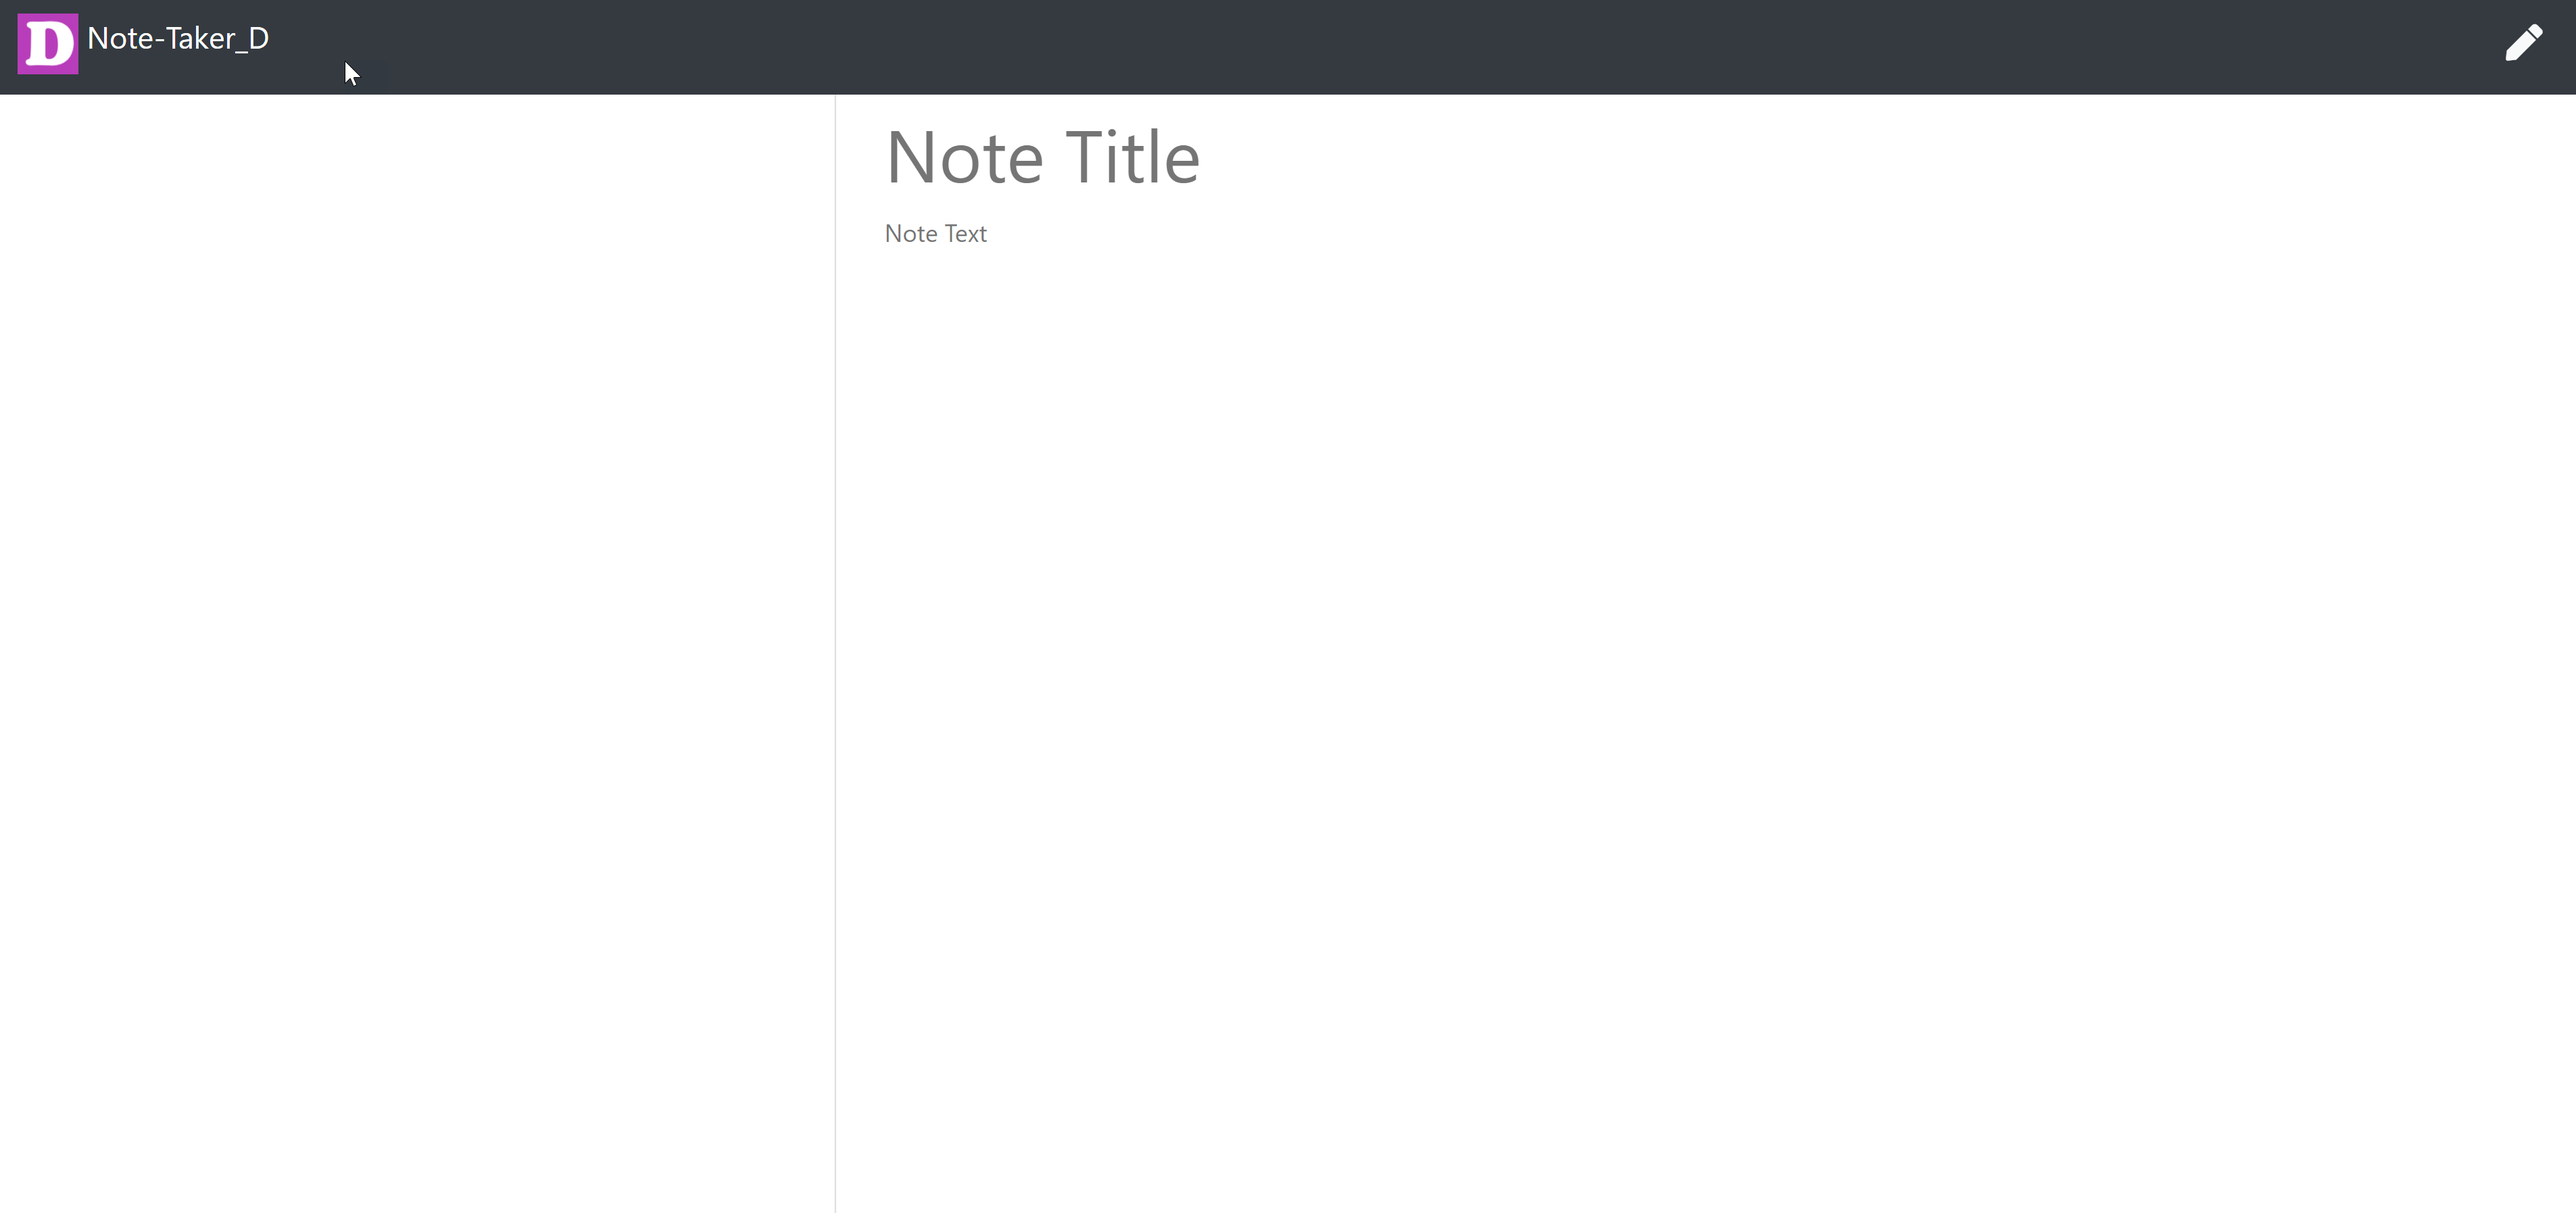
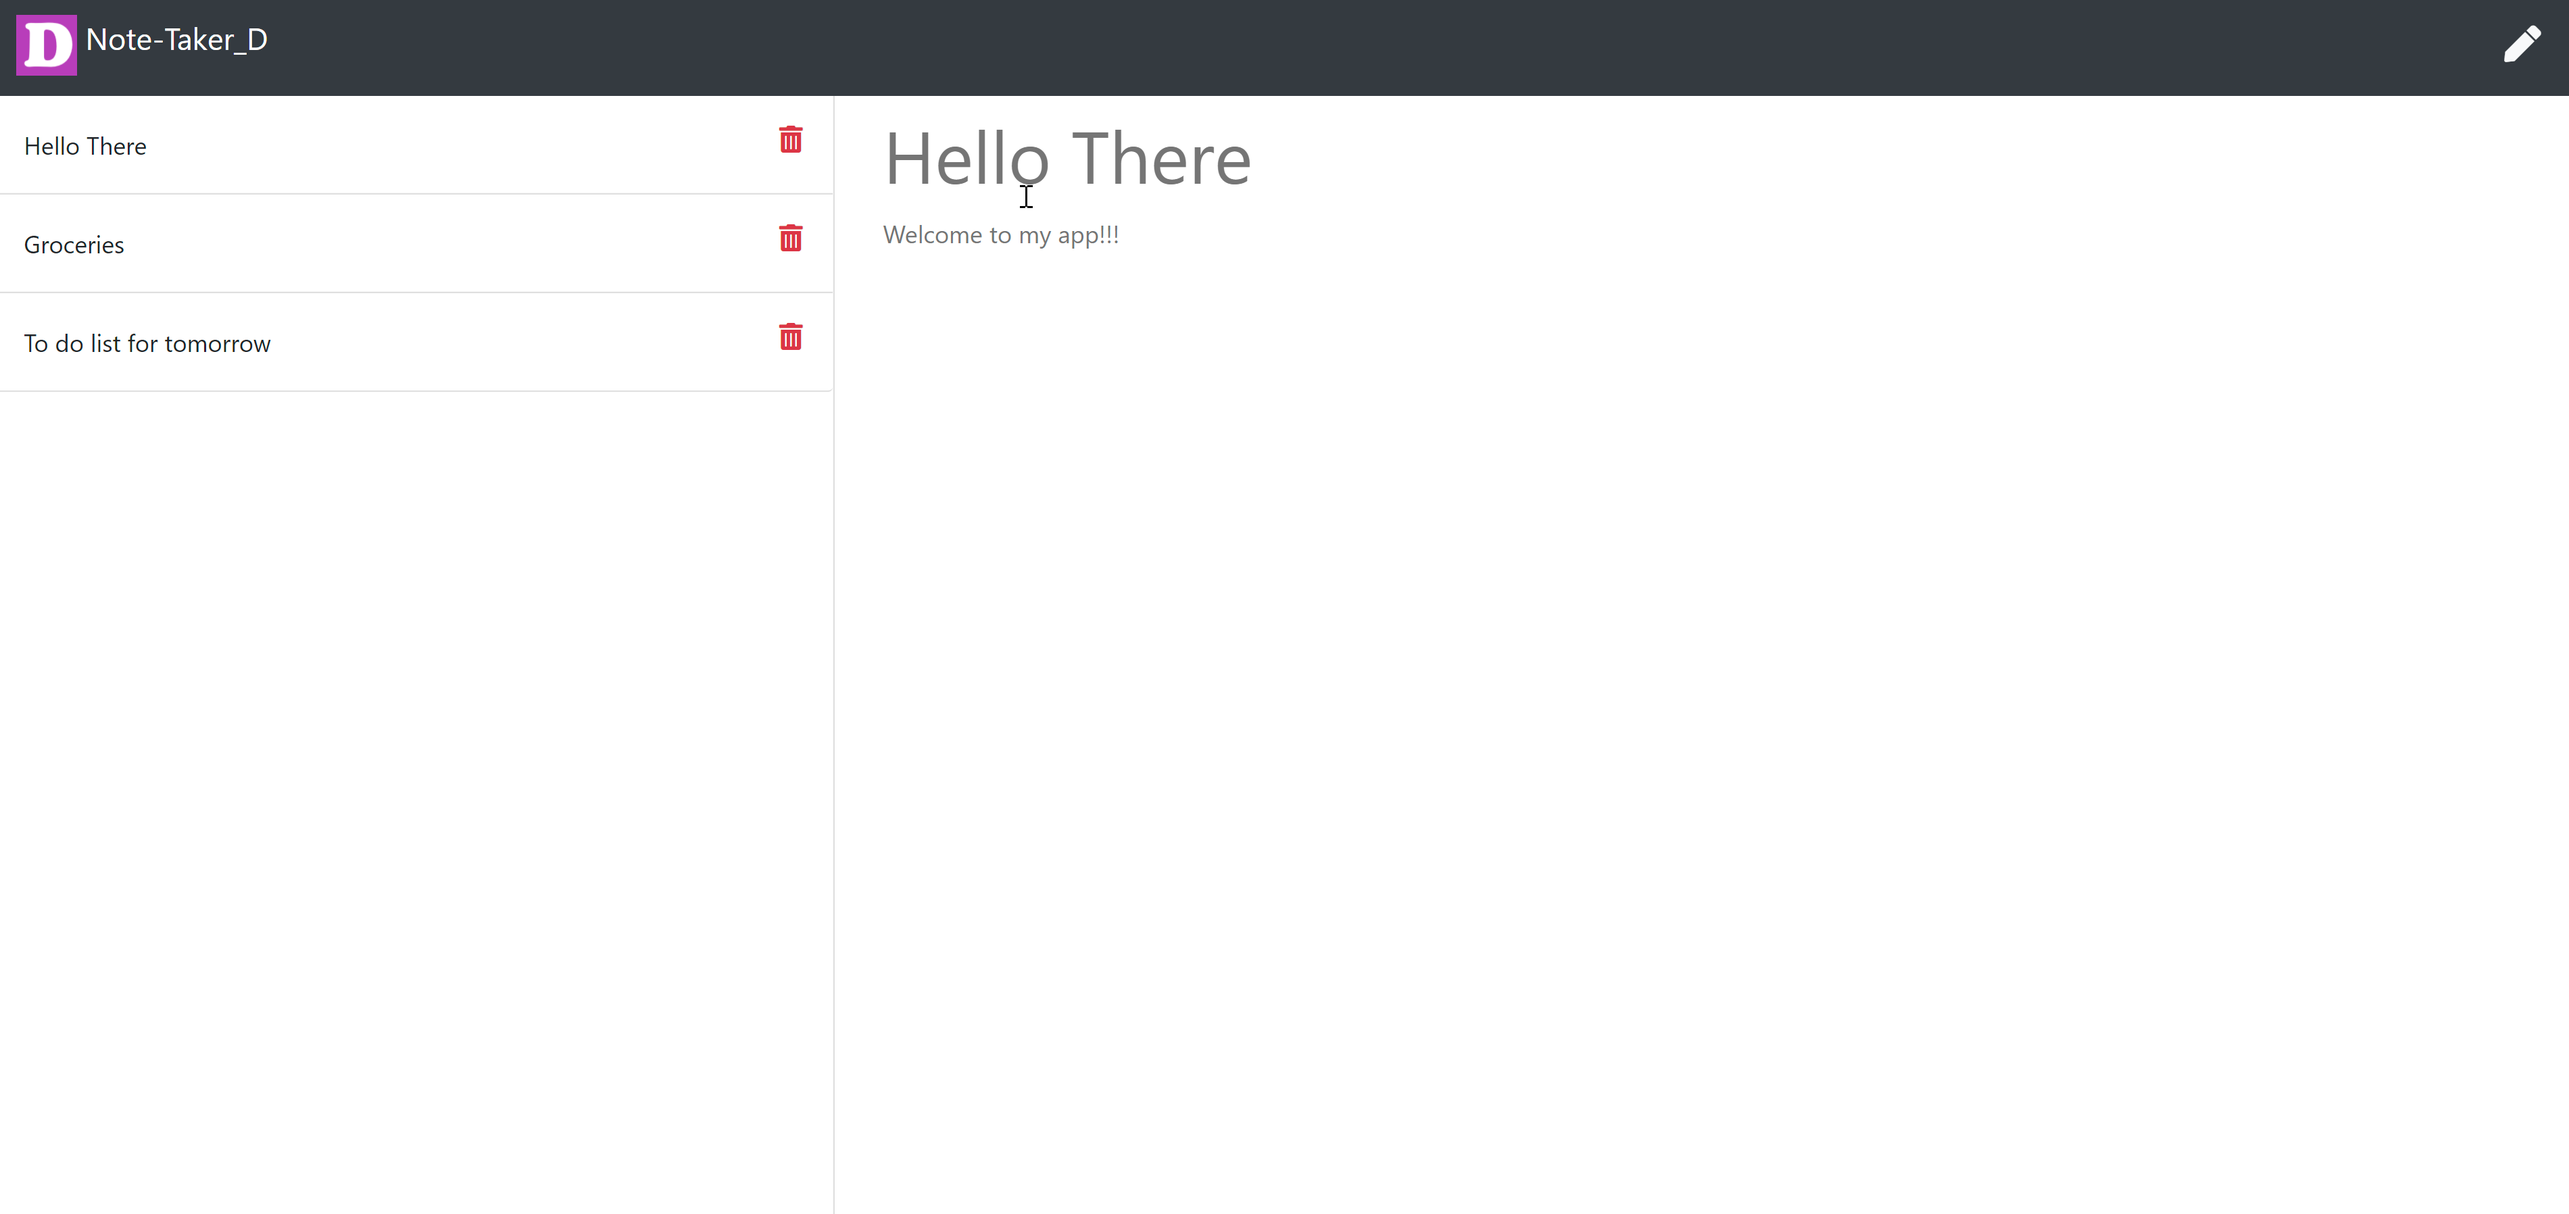
added images

diff --git a/README.md b/README.md
@@ -23,11 +23,16 @@ Note-Taker_D...
 
 ### Screenshot of landing page:
 
-<img src="" width="1275" height="600">
+<img src="https://github.com/davidyi0529/Note-Taker_D/blob/main/Public/assets/images/landing%20page.png?raw=true" width="1275" height="600">
 
-### Screenshot of Input page:
+### Screenshot of notes page:
 
-<img src="" width="1275" height="600">
+<img src="https://github.com/davidyi0529/Note-Taker_D/blob/main/Public/assets/images/notes%20page.png?raw=true" width="1275" height="600">
+
+
+### Demo of notes page:
+
+<img src="https://github.com/davidyi0529/Note-Taker_D/blob/main/Public/assets/images/demo.gif?raw=true" width="1275" height="600">
 
 <br />
 <br />
